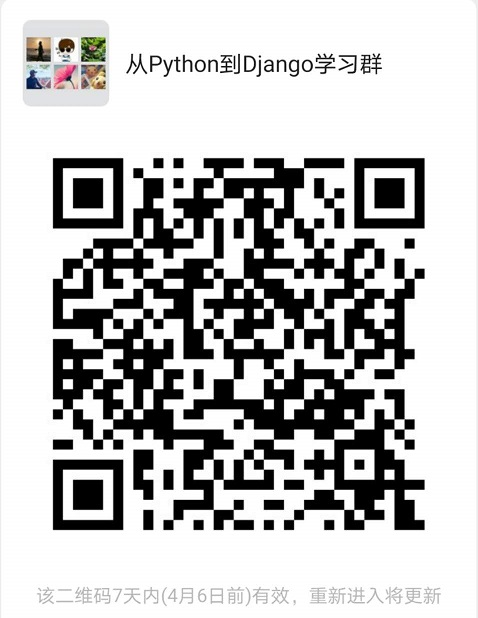
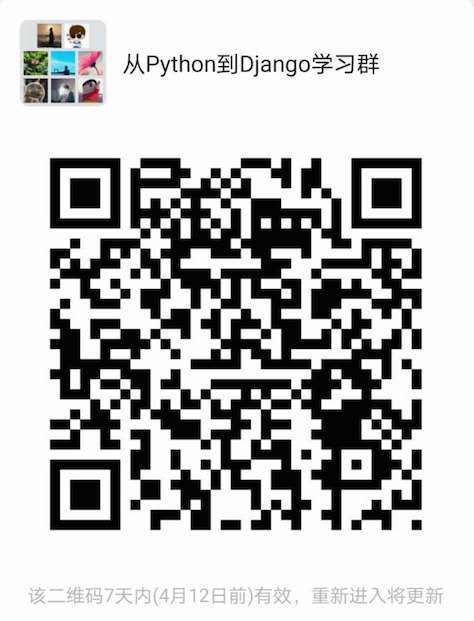
更新二维码

diff --git a/README.md b/README.md
@@ -54,7 +54,7 @@ Django是一个开放源代码的Web应用框架，由Python写成。采用了MV
 
 更多关于Python以及Django的讨论，尤其是使用Django开发微信相关应用的技术，请使用微信扫描二维码加群。
 
-![](./wechat.png)
+![](./wechat.jpg)
 
 本书托管在[GitHub](https://github.com/borisliu/from-python-to-django)，
 如果有问题请在线[提交](https://github.com/borisliu/from-python-to-django/issues)。
